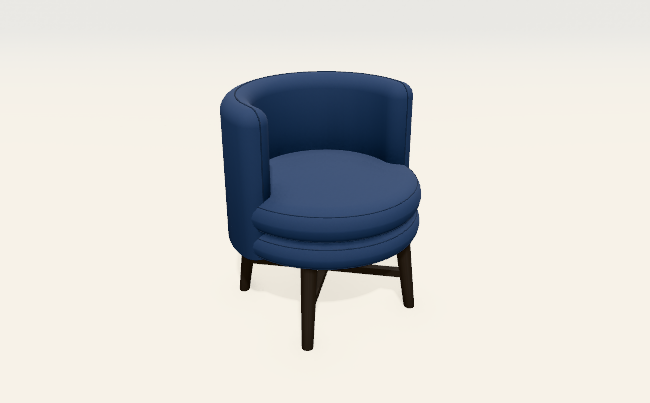
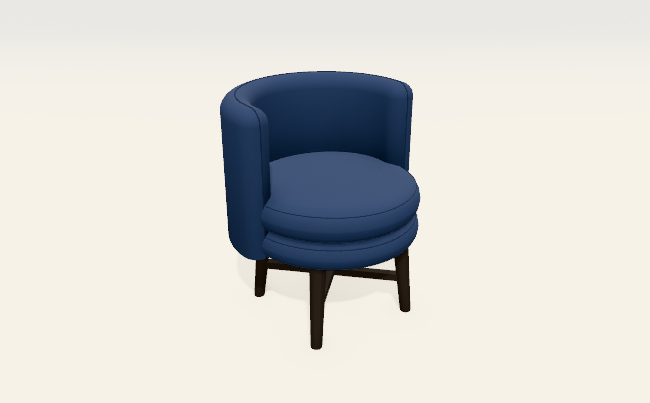
Satie naar de productfoto: trommel tot op de vloer, schaal die errond uitsteekt, één los rugkussen
- Satie: maten van de productpagina (diameter 70, hoogte 70; zithoogte 45 geschat), één breed rugkussen in
  plaats van drie rollen (Jonas: "Satie heeft maar 1 kussen"), schaal met bies. Prijs 1.018 → 959.
- Nieuw gegeven `zitIn`: de schaal steekt een paar cm rond de trommelzitting uit, zoals op de foto's; de
  zitting, het onderstel, het boven- en het vooraanzicht volgen. Ook op Fraser (3,5 cm).
- Losse vierkante rugkussens leunen tegen de rand van de schaal (staken er van achter doorheen); eigen
  hoogte per model (`kussenHoog`).
- Tests en referentiebeelden (satie-schuin erbij, fraser-schuin vernieuwd).

Claude-Session: https://claude.ai/code/session_01PczewFp9M8BS44vqTSpk6u

diff --git a/packages/core/src/kuip.ts b/packages/core/src/kuip.ts
@@ -50,6 +50,12 @@ export interface KuipParameters {
   zitTrommel?: boolean;
   /** Afronding van de bovenrand van die trommel in cm (standaard 6). */
   zitRand?: number;
+  /**
+   * De schaal steekt zoveel cm rond de trommelzitting uit (een trapje tussen schaal en zitting, zoals op de foto's van
+   * Satie, Quin en Fraser). De zitting wordt aan de zijkanten zoveel smaller en blijft vooraan tot tegen de voorkant
+   * komen, zodat de maten van de zetel gelijk blijven. Leeg = zitting en schaal (bijna) gelijk.
+   */
+  zitIn?: number;
   /** De schaal staat op de zitting (onderkant net onder de zithoogte) in plaats van eromheen tot onderaan. */
   schaalOp?: boolean;
   /** Dikte in cm van het houten frame onder de zitting bij poten met een frame (ringframe); standaard 4. */
@@ -75,6 +81,8 @@ export interface KuipParameters {
    */
   kussens?: number;
   kussenMaat?: number;
+  /** Hoogte van die kussens in cm als ze niet vierkant zijn (Satie: één breed kussen); leeg = zoals `kussenMaat`. */
+  kussenHoog?: number;
 }
 
 /** Parameters uit de `teken`-velden van de gekozen kuipvorm; null voor de hoekige fauteuil (rechte rug en armen). */
@@ -102,6 +110,7 @@ export function kuipParameters(tekenVanKeuze: Record<string, unknown> | undefine
     ...(teken.profielRecht === true ? { profielRecht: true } : {}),
     ...(teken.zitTrommel === true ? { zitTrommel: true } : {}),
     ...(typeof teken.zitRand === 'number' ? { zitRand: teken.zitRand } : {}),
+    ...(typeof teken.zitIn === 'number' && teken.zitIn > 0 ? { zitIn: teken.zitIn } : {}),
     ...(teken.schaalOp === true ? { schaalOp: true } : {}),
     ...(typeof teken.frameDik === 'number' ? { frameDik: teken.frameDik } : {}),
     ...(teken.frameKruis === true ? { frameKruis: true } : {}),
@@ -110,8 +119,12 @@ export function kuipParameters(tekenVanKeuze: Record<string, unknown> | undefine
     ...(profielRechts.length >= 2 ? { profielRechts } : {}),
     ...(typeof teken.kussens === 'number' && teken.kussens >= 1 ? { kussens: Math.min(5, Math.round(teken.kussens)) } : {}),
     ...(typeof teken.kussenMaat === 'number' ? { kussenMaat: teken.kussenMaat } : {}),
+    ...(typeof teken.kussenHoog === 'number' ? { kussenHoog: teken.kussenHoog } : {}),
   };
 }
+
+/** Hoeveel graden een los vierkant rugkussen achterover tegen de schaal leunt (rond zijn onderkant). */
+export const KUSSEN_KANTEL = 14;
 
 /** Waarde van een verloop [u, f] op plaats u: tussen twee punten een zachte S-bocht (of recht). */
 function langsProfiel(profiel: [number, number][], u: number, recht = false): number {
@@ -137,6 +150,17 @@ export function superellips(cx: number, cy: number, a: number, b: number, n: num
     uit.push([cx + a * Math.sign(c) * Math.abs(c) ** (2 / n), cy + b * Math.sign(s) * Math.abs(s) ** (2 / n)]);
   }
   return uit;
+}
+
+/**
+ * Kader van de trommelzitting in lokale maten. Zonder `zitIn` het hele grondvlak; met `zitIn` aan de zijkanten zoveel
+ * naar binnen, achteraan tot in de schaal (nooit voorbij haar binnenkant, anders een kier) en vooraan tot de voorkant.
+ * Het onderstel (frame en poten) staat onder dit kader.
+ */
+export function trommelKader(B: number, D: number, k: KuipParameters | null): { x: number; y: number; b: number; d: number } {
+  if (!k?.zitTrommel || !k.zitIn) return { x: 0, y: 0, b: B, d: D };
+  const w = Math.min(k.dikte, B / 3, D / 3), zi = Math.min(k.zitIn, B / 6, D / 6), achter = Math.max(0, Math.min(2 * zi, w - 0.5));
+  return { x: zi, y: achter, b: B - 2 * zi, d: D - achter };
 }
 
 /**
@@ -260,19 +284,25 @@ export function kuipOpbouw(B: number, D: number, h: { P: number; zithoogte: numb
   const achter = k.zwevend ? 3 : w * (k.organisch ? 0.9 : 0.85);
   const zij = k.zwevend ? 1.5 : w * (k.organisch ? 0.45 : 0.8);
   const zcy = (achter + D - 1.5) / 2, zb = (D - 1.5 - achter) / 2;
-  // Trommel: de zitting is het hele grondvlak.
-  const zit = k.zitTrommel ? plan : superellips(cx, zcy, B / 2 - zij, zb, k.plan === 'rond' ? 2.4 : n, 0, 360, 64).slice(0, -1);
+  // Trommel: de zitting is het hele grondvlak, of met `zitIn` een kleiner grondvlak binnen de schaal (zie trommelKader).
+  const tk = trommelKader(B, D, k);
+  const zit = k.zitTrommel
+    ? k.zitIn ? plan.map(([x, y]) => [rond1(tk.x + (x / B) * tk.b), rond1(tk.y + (y / D) * tk.d)] as Punt) : plan
+    : superellips(cx, zcy, B / 2 - zij, zb, k.plan === 'rond' ? 2.4 : n, 0, 360, 64).slice(0, -1);
   // Losse rugkussens tegen de wand achteraan.
   const rugkussens: KuipOpbouw['rugkussens'] = [];
   if (losseRug && k.kussens) {
     // Gewone vierkante kussens langs de binnenkant van de schaal, elk naar het midden van de zetel gedraaid. Ze staan op
     // een kleiner grondvlak (de schaal, het halve kussen en 1 cm speling naar binnen) en overlappen elkaar wat.
-    const dik = 13, maat = Math.max(25, Math.min(k.kussenMaat ?? 46, B - 2 * w - 6));
-    const a = B / 2 - w - dik / 2 - 1, b = D / 2 - w - dik / 2 - 1;
+    const dik = 13, maat = Math.max(25, Math.min(k.kussenMaat ?? 46, B - 2 * w - 6)), hoog = Math.max(20, k.kussenHoog ?? maat);
+    // Het kussen leunt achterover tegen de bovenrand van de schaal: onderaan staat het zoveel verder naar voren als het
+    // tot die rand achteruit helt. Anders stak het door de schaal heen (van achter te zien, Satie 13/11).
+    const leun = Math.max(0, Math.min(rug - zitBoven, hoog)) * Math.tan((KUSSEN_KANTEL * Math.PI) / 180);
+    const a = B / 2 - w - dik / 2 - 1 - leun, b = D / 2 - w - dik / 2 - 1 - leun;
     const stapGraden = k.kussens > 1 ? Math.min(46, ((maat * 0.82) / ((a + b) / 2)) * (180 / Math.PI)) : 0;
     for (let i = 0; i < k.kussens; i++) {
       const graden = (i - (k.kussens - 1) / 2) * stapGraden, [px, py] = superellips(cx, cy, a, b, n, -90 + graden, -90 + graden, 1)[0]!;
-      rugkussens.push({ lx: rond1(px - maat / 2), ly: rond1(py - dik / 2), lb: maat, ld: dik, y: zitBoven, h: maat, draai: rond1(graden), vierkant: true });
+      rugkussens.push({ lx: rond1(px - maat / 2), ly: rond1(py - dik / 2), lb: maat, ld: dik, y: zitBoven, h: hoog, draai: rond1(graden), vierkant: true });
     }
   } else if (losseRug) {
     const aantal = Math.max(1, Math.min(3, Math.round((B - 2 * w) / 30)));

diff --git a/packages/core/src/ruimtelijk.ts b/packages/core/src/ruimtelijk.ts
@@ -8,7 +8,7 @@
 import { weefselVan, type Materiaal } from './materialen.js';
 import { echt3dPlaatsing, type Echt3D, type Echt3DPlaatsing } from './echt3d.js';
 import { doorlopendeOpbouw } from './doorlopend.js';
-import { framePoten, kuipOpbouw, kuipParameters, superellips, type Punt } from './kuip.js';
+import { framePoten, KUSSEN_KANTEL, kuipOpbouw, kuipParameters, superellips, trommelKader, type Punt } from './kuip.js';
 import { chaiseRugVan, chaiseRugVlak, draagHoogteVan, dragerVan, gekozenOpties, karkasHoogteVan, rugleuningTop, hoogtesVan, materiaalVan, lokaalNaarWereld, voetafdruk, vormgevingVan, type Ontwerp, type OntwerpCatalogus, type OntwerpElement } from './ontwerp.js';
 
 export type BlokSoort =
@@ -208,16 +208,19 @@ export function bouw3D(ontwerp: Ontwerp, catalogus: OntwerpCatalogus, materialen
         const kuipFrame = t.tekenstijl === 'kuip' ? kuipParameters(opt.get('kuipvorm')?.teken, vormgevingVan(ontwerp, e).kuip) : null;
         const ringH = potVorm === 'ringframe' ? Math.min(kuipFrame?.frameDik ?? 4, P / 3) : 0;
         const exp = kuipFrame ? kuipFrame.exponent ?? (kuipFrame.plan === 'rond' ? 2 : 3.4) : 2;
+        // Het onderstel staat onder de zitting: bij een trommel die binnen de schaal staat (`zitIn`) onder dat kleinere kader.
+        const tk = trommelKader(B, D, kuipFrame);
         if (ringH > 0 && kuipFrame) {
-          const f = Math.max(0.5, 1 - 3 / (m / 2));
-          omtrekBlok('ring', potSoort, P - ringH, ringH, potKleur, superellips(B / 2, D / 2, (B / 2) * f, (D / 2) * f, exp, 0, 360, 72).slice(0, -1), { afronding: 1 });
+          const f = Math.max(0.5, 1 - 3 / (Math.min(tk.b, tk.d) / 2));
+          omtrekBlok('ring', potSoort, P - ringH, ringH, potKleur, superellips(tk.x + tk.b / 2, tk.y + tk.d / 2, (tk.b / 2) * f, (tk.d / 2) * f, exp, 0, 360, 72).slice(0, -1), { afronding: 1 });
         } else if (ringH > 0) {
           // Een ander element (bv. een zitelement van een sofa): een recht frame onder het hele element, 3 cm naar binnen.
           lokaal('ring', potSoort, 3, 3, B - 6, D - 6, P - ringH, ringH, potKleur, { afronding: 1 });
         }
         // Poten onder de vier hoeken: op de diagonalen van het grondvlak, een eind naar binnen, met de voet schuin naar
         // buiten (zie framePoten). De verschuiving van de voet in wereldmaat, zodat het klopt bij een gedraaid element.
-        const fp = framePoten(B, D, P - ringH, kuipFrame ? exp : null);
+        const fp = framePoten(tk.b, tk.d, P - ringH, kuipFrame ? exp : null);
+        for (const q of fp.poten) { q.lx += tk.x; q.ly += tk.y; }
         for (const q of fp.poten) {
           const boven = lokaalNaarWereld(e, q.lx, q.ly, 0, 0), voet = lokaalNaarWereld(e, q.lx + q.dx, q.ly + q.dy, 0, 0);
           lokaal(`poot-${q.k}`, potSoort, q.lx - dik / 2, q.ly - dik / 2, dik, dik, 0, P - ringH, potKleur, {
@@ -228,7 +231,7 @@ export function bouw3D(ontwerp: Ontwerp, catalogus: OntwerpCatalogus, materialen
           // Twee latten kruiselings tussen de poten: een balk langs x rond het midden van het element, gedraaid tot op de
           // diagonaal naar een poot (in wereldmaat, zodat het ook klopt bij een gedraaid element en een niet-vierkant
           // grondvlak). Even lang als de afstand tussen de (schuine) poten op die hoogte.
-          const y = Math.max(2, (P - ringH) * 0.42), c = lokaalNaarWereld(e, B / 2, D / 2, 0, 0);
+          const y = Math.max(2, (P - ringH) * 0.42), c = lokaalNaarWereld(e, tk.x + tk.b / 2, tk.y + tk.d / 2, 0, 0);
           const lang = 2 * (fp.straal + fp.spreid * (1 - y / (P - ringH)));
           for (const [k, i] of [['a', 3], ['b', 2]] as const) {
             const q = fp.poten[i]!, poot = lokaalNaarWereld(e, q.lx, q.ly, 0, 0);
@@ -495,8 +498,9 @@ export function bouw3D(ontwerp: Ontwerp, catalogus: OntwerpCatalogus, materialen
               if (binnenPad && beste < half + 4) buitenWand = Math.max(buitenWand, beste - half);
             }
           }
-          const krimp = kp.zwevend || kp.schaalOp ? 0 : r2(0.8 + buitenWand);
-          const basisPlan = opb.plan.map(([x, y]) => [B / 2 + (x - B / 2) * (1 - krimp / (B / 2)), D / 2 + (y - D / 2) * (1 - krimp / (D / 2))] as Punt);
+          const krimp = kp.zwevend || kp.schaalOp || (kp.zitTrommel && kp.zitIn) ? 0 : r2(0.8 + buitenWand);
+          // Trommel binnen de schaal (`zitIn`): het kleinere grondvlak uit de opbouw; anders het hele grondvlak.
+          const basisPlan = kp.zitTrommel && kp.zitIn ? opb.zit : opb.plan.map(([x, y]) => [B / 2 + (x - B / 2) * (1 - krimp / (B / 2)), D / 2 + (y - D / 2) * (1 - krimp / (D / 2))] as Punt);
           // Organisch (Pebble): de zitting is één zachte kiezel in de stof (geen donkere onderbouw met een los kussen erop) en
           // de schaal een eigen zachte vorm met ronde uiteinden (glad, zoals de doorlopende zetel), in plaats van een wand die
           // recht afgesneden in de onderbouw steekt. Twee aparte zachte delen: waar de schaal tegen de zitting drukt, blijft
@@ -541,7 +545,7 @@ export function bouw3D(ontwerp: Ontwerp, catalogus: OntwerpCatalogus, materialen
           opb.rugkussens.forEach((k, i) => lokaal(`rugkussen${opb.rugkussens.length > 1 ? i + 1 : ''}`, 'kussen', k.lx, k.ly, k.lb, k.ld, k.y, k.h, stof,
             // Een gewoon vierkant kussen: ronder, boller, naar het midden van de zetel gedraaid en wat meer achterover.
             k.vierkant
-              ? { afronding: rond1(Math.min(k.ld / 2.2, 3 + zacht * 0.5)), bol: rond1(k.ld * 0.22), kantel: { graden: 14, richting }, ...(k.draai ? { draai: k.draai } : {}) }
+              ? { afronding: rond1(Math.min(k.ld / 2.2, 3 + zacht * 0.5)), bol: rond1(k.ld * 0.22), kantel: { graden: KUSSEN_KANTEL, richting }, ...(k.draai ? { draai: k.draai } : {}) }
               : { afronding: 2 + zacht, kantel: { graden: 10, richting } }));
           break;
         }

diff --git a/packages/core/test/modellen.test.ts b/packages/core/test/modellen.test.ts
@@ -172,7 +172,8 @@ describe('verdekte voet volgt de vorm (geen vierkante plaat onder een rond meube
   });
   it('kuipfauteuil: voet met de omtrek van de onderbouw, helemaal binnen die omtrek', () => {
     for (const code of ['pebble', 'tumble', 'manon', 'satie']) {
-      const b = blokken(code), voet = b.find((x) => x.code === 'e1.verdekt')!, basis = b.find((x) => x.code === 'e1.basis')!;
+      // De onderbouw, of bij een fauteuil met een vaste trommelzitting (Satie) die zitting zelf.
+      const b = blokken(code), voet = b.find((x) => x.code === 'e1.verdekt')!, basis = (b.find((x) => x.code === 'e1.basis') ?? b.find((x) => x.code === 'e1.zitkussen'))!;
       expect(voet.omtrek, code).toBeDefined();
       for (const p of voet.omtrek!) expect(binnen(p, basis.omtrek!), `${code} ${p}`).toBe(true);
     }
@@ -207,8 +208,11 @@ describe('kuipfauteuils: onderbouw binnen de wand, ronde onderrand bij een zweve
   };
   it('de onderbouw steekt nergens door de wand (vroeger een dun streepje naast het wanduiteinde van Ross)', () => {
     // Bij een afgerond grondvlak ligt de buitenkant van de wand in de hoeken tot ±1 cm binnen de omtrek.
-    for (const code of ['ross', 'mabel-1', 'mabel-2', 'sullivan', 'tumble', 'quin', 'satie', 'fraser', 'milton', 'manon'])
+    for (const code of ['ross', 'mabel-1', 'mabel-2', 'sullivan', 'tumble', 'quin', 'milton', 'manon'])
       expect(speling(code), code).toBeGreaterThan(0.7);
+    // Een trommel die binnen de schaal staat (`zitIn`: Satie, Fraser): haar rand ligt overal binnen de wand, tegen de
+    // binnenkant aan (geen kier tussen zitting en schaal, en niets dat erdoor steekt).
+    for (const code of ['satie', 'fraser']) expect(speling(code), code).toBeGreaterThan(0.3);
   });
   it('alleen de zwevende schaal (Karl) krijgt een ronde onderrand; een wand op de onderbouw niet', () => {
     const karl = blokken('karl').find((x) => x.code === 'e1.rug')!;
@@ -231,7 +235,7 @@ describe('Pebble (kuipvorm organisch): zachte kiezel met een schaal, geen losse 
     expect(rug.y).toBeLessThan(0); // platte onderkant onder de vloer
   });
   it('andere kuipfauteuils blijven zoals ze waren (donkere onderbouw, los zitkussen, wand op de onderbouw)', () => {
-    for (const code of ['tumble', 'manon', 'satie']) {
+    for (const code of ['tumble', 'manon']) {
       const b = blokken(code), basis = b.find((x) => x.code === 'e1.basis')!, rug = b.find((x) => x.code === 'e1.rug')!;
       expect(basis.soort, code).toBe('stof');
       expect(basis.glad, code).toBeUndefined();
@@ -247,7 +251,7 @@ describe('fauteuils naar de productfoto\'s (13/11)', () => {
   // Maten van de productpagina's: breedte × diepte × hoogte en de zithoogte.
   const SITE: Record<string, [number, number, number, number]> = {
     milton: [70, 68, 72, 40], 'mabel-1': [68, 65, 76, 45], 'mabel-2': [150, 65, 76, 45], 'mabel-meridienne': [150, 65, 76, 45],
-    fraser: [61, 61, 70, 44],
+    fraser: [61, 61, 70, 44], satie: [70, 70, 70, 45],
   };
   it('de maten van de productpagina: het kader van de 3D en de bovenkant van de zitting', () => {
     for (const [code, [b, d, h, zit]] of Object.entries(SITE)) {
@@ -255,12 +259,27 @@ describe('fauteuils naar de productfoto\'s (13/11)', () => {
       // Het kader van de fauteuil zelf (een los sierkussen, zoals op de méridienne, telt niet mee).
       const eigen = s.blokken.filter((x) => x.code.startsWith('e1.'));
       expect(s.kader, code).toMatchObject({ b, d });
-      expect(Math.max(...eigen.map((x) => x.y + x.h)), code).toBe(h);
+      // De hoogte van de site is de schaal; een los rugkussen mag erboven uitkomen (Satie).
+      expect(Math.max(...eigen.filter((x) => !x.code.includes('rugkussen')).map((x) => x.y + x.h)), code).toBe(h);
       expect(zitting.y + zitting.h, code).toBe(zit);
       // Eén vaste zitting in de stof, zonder donkere onderbouw; geen fout in de prijsberekening.
       expect(s.blokken.some((x) => x.code === 'e1.basis'), code).toBe(false);
       expect(berekenOntwerp(model(code).ontwerp, zetelCatalogus, standaardMaterialen).meldingen.filter((m) => m.ernst === 'fout'), code).toHaveLength(0);
     }
+  });
+  it('Satie: trommel tot op de vloer, de schaal steekt errond uit, één los rugkussen (geen drie rollen)', () => {
+    const b = scene('satie').blokken, rug = b.find((x) => x.code === 'e1.rug')!, zit = b.find((x) => x.code === 'e1.zitkussen')!;
+    expect(new Set(rug.hoogtes)).toEqual(new Set([70]));
+    expect(rug.naad?.soort).toBe('bies');
+    expect(zit.y).toBeLessThanOrEqual(2);
+    // Het trapje: de zitting is 8 cm smaller dan de schaal, en komt vooraan tot de voorkant.
+    expect(zit.b).toBeCloseTo(62, 0);
+    expect(zit.z + zit.d).toBeCloseTo(70, 0);
+    const kussens = b.filter((x) => x.code.startsWith('e1.rugkussen'));
+    expect(kussens).toHaveLength(1);
+    expect(kussens[0]).toMatchObject({ b: 48, h: 38 });
+    // Het kussen komt boven de schaal uit, zoals op de foto.
+    expect(kussens[0]!.y + kussens[0]!.h).toBeGreaterThan(70);
   });
   it('Fraser: lage rechte schaal, zitting in twee lagen, vier schuine poten met een kruis', () => {
     const b = scene('fraser').blokken, rug = b.find((x) => x.code === 'e1.rug')!;

diff --git a/packages/core/test/kuip.test.ts b/packages/core/test/kuip.test.ts
@@ -1,6 +1,6 @@
 import { describe, expect, it } from 'vitest';
 import { berekenOntwerp, bouw3D, tekenVooraanzicht, type Ontwerp, type Rotatie } from '../src/index.js';
-import { framePoten, kuipOpbouw, kuipParameters } from '../src/kuip.js';
+import { framePoten, kuipOpbouw, kuipParameters, trommelKader } from '../src/kuip.js';
 import { standaardMaterialen } from '../voorbeelden/sofa.js';
 import { zetelCatalogus } from '../voorbeelden/vrij-ontwerp.js';
 
@@ -291,6 +291,46 @@ describe('eigen vorm per model: zitting, schaal en onderstel als gegevens (13/11
     expect(band.omtrek).toEqual(kussen.omtrek);
     // Zonder: één geheel, zoals voorheen.
     expect(bouw3D(fauteuil(milton), cat, standaardMaterialen).blokken.some((x) => x.code === 'f.zitband')).toBe(false);
+  });
+
+  it('de schaal steekt rond de trommel uit (`zitIn`): smallere zitting, vooraan tot de voorkant, onderstel eronder', () => {
+    const kp = kuipParameters({ plan: 'rond', dikte: 6, boog: 95 }, { zitTrommel: true, zitIn: 4, profiel: [[0, 1], [1, 1]] })!;
+    // Zijkanten 4 cm naar binnen; achteraan tot net in de schaal (5,5 van de 6 cm: geen kier), vooraan niets.
+    expect(trommelKader(70, 70, kp)).toEqual({ x: 4, y: 5.5, b: 62, d: 64.5 });
+    expect(trommelKader(70, 70, { ...kp, zitIn: undefined })).toEqual({ x: 0, y: 0, b: 70, d: 70 });
+    const opb = kuipOpbouw(70, 70, { P: 2, zithoogte: 45, rugH: 70, kussenDik: 0 }, kp, false);
+    const xs = opb.zit.map((q) => q[0]), ys = opb.zit.map((q) => q[1]);
+    expect([Math.min(...xs), Math.max(...xs), Math.min(...ys), Math.max(...ys)]).toEqual([4, 66, 5.5, 70]);
+    // In de 3D en in beide tekeningen dezelfde zitting; het frame en de poten staan eronder, niet onder de schaal.
+    for (const rotatie of [0, 90, 180, 270] as Rotatie[]) {
+      const o = fauteuil({ ...milton, zitIn: 3 }, 'ringframe', rotatie), b = bouw3D(o, cat, standaardMaterialen).blokken;
+      const zit = b.find((x) => x.code === 'f.zitkussen')!, ring = b.find((x) => x.code === 'f.ring')!;
+      expect(Math.min(zit.b, zit.d), `rotatie ${rotatie}`).toBeCloseTo(62, 0);
+      expect(ring.x, `rotatie ${rotatie}`).toBeGreaterThan(zit.x);
+      expect(ring.x + ring.b, `rotatie ${rotatie}`).toBeLessThan(zit.x + zit.b);
+      expect(ring.z, `rotatie ${rotatie}`).toBeGreaterThan(zit.z);
+      expect(ring.z + ring.d, `rotatie ${rotatie}`).toBeLessThan(zit.z + zit.d);
+      for (const p of b.filter((x) => x.code.startsWith('f.poot-'))) {
+        expect(p.x, `rotatie ${rotatie}`).toBeGreaterThan(zit.x);
+        expect(p.x + p.b, `rotatie ${rotatie}`).toBeLessThan(zit.x + zit.b);
+      }
+      const voor = tekenVooraanzicht(o, cat, standaardMaterialen).vormen, zitV = voor.find((v) => v.code === 'f.zitkussen')!, ringV = voor.find((v) => v.code === 'f.ring')!;
+      expect(zitV.breedte, `rotatie ${rotatie}`).toBeCloseTo(zit.b, 0);
+      expect(ringV.x, `rotatie ${rotatie}`).toBeGreaterThan(zitV.x);
+      expect(ringV.x + ringV.breedte!, `rotatie ${rotatie}`).toBeLessThan(zitV.x + zitV.breedte!);
+    }
+  });
+
+  it('een los vierkant rugkussen leunt tegen de rand van de schaal en steekt er niet doorheen', () => {
+    const kp = kuipParameters({ plan: 'rond', dikte: 6, boog: 95 }, { zitTrommel: true, profiel: [[0, 1], [1, 1]], kussens: 1, kussenMaat: 48, kussenHoog: 38 })!;
+    const k = kuipOpbouw(70, 70, { P: 2, zithoogte: 45, rugH: 70, kussenDik: 0 }, kp, true).rugkussens[0]!;
+    expect(k).toMatchObject({ lb: 48, h: 38, vierkant: true });
+    // Onderaan staat de achterkant van het kussen 25 cm × tan 14° (±6,2 cm) voor de binnenkant van de schaal (6 cm).
+    expect(k.ly).toBeGreaterThan(6 + 6);
+    expect(k.ly).toBeLessThan(6 + 8);
+    // Zonder eigen hoogte blijft het vierkant.
+    const vier = kuipOpbouw(70, 70, { P: 2, zithoogte: 45, rugH: 70, kussenDik: 0 }, { ...kp, kussenHoog: undefined }, true).rugkussens[0]!;
+    expect(vier.h).toBe(48);
   });
 
   it('de schaal van een trommelfauteuil krijgt een naad of bies langs haar rand', () => {

diff --git a/packages/core/src/vooraanzicht.ts b/packages/core/src/vooraanzicht.ts
@@ -7,7 +7,7 @@
 import type { Materiaal } from './materialen.js';
 import { chaiseRugVan, chaiseRugVlak, draagHoogteVan, dragerVan, gekozenOpties, karkasHoogteVan, rugleuningTop, lokaalNaarWereld, hoogtesVan, materiaalVan, voetafdruk, vormgevingVan, type Ontwerp, type OntwerpCatalogus, type OptieKeuze } from './ontwerp.js';
 import type { TekeningResultaat, VormResultaat } from './types.js';
-import { framePoten, kuipOpbouw, kuipParameters } from './kuip.js';
+import { framePoten, kuipOpbouw, kuipParameters, trommelKader } from './kuip.js';
 import { strakProfiel, uitlopendProfiel } from './ruimtelijk.js';
 
 const rond = (x: number) => Math.round(x * 100) / 100;
@@ -91,19 +91,21 @@ export function tekenVooraanzicht(ontwerp: Ontwerp, catalogus: OntwerpCatalogus,
         case 'ringframe':
         case 'kruisframe': {
           // Onderstel van een fauteuil: een frame onder de zitting op schuine poten, of vier poten met een kruis.
-          const frame = vorm === 'ringframe' ? Math.min(kuipParameters(opt.get('kuipvorm')?.teken, vormgevingVan(ontwerp, e).kuip)?.frameDik ?? 4, P / 3) : 0;
-          if (frame) rect(`${e.id}.ring`, x0 + 3, -P, p.b - 6, frame, potKleur);
-          // Zelfde poten als in de 3D (framePoten): de bovenkant onder het frame, de voet schuin naar buiten.
           const kuipFrame = t.tekenstijl === 'kuip' ? kuipParameters(opt.get('kuipvorm')?.teken, vormgevingVan(ontwerp, e).kuip) : null;
-          const fp = framePoten(p.b, p.h, P - frame, kuipFrame ? kuipFrame.exponent ?? (kuipFrame.plan === 'rond' ? 2 : 3.4) : null);
-          const rv = fp.poten[3]!, uit = rv.lx - p.b / 2, voet = uit + rv.dx;
+          const frame = vorm === 'ringframe' ? Math.min(kuipFrame?.frameDik ?? 4, P / 3) : 0;
+          // Onder de zitting: bij een trommel die binnen de schaal staat (`zitIn`) onder dat kleinere kader.
+          const tk = trommelKader(e.breedte, e.diepte, kuipFrame), wk = lokaalNaarWereld(e, tk.x, tk.y, tk.b, tk.d), mid = wk.x + wk.b / 2;
+          if (frame) rect(`${e.id}.ring`, wk.x + 3, -P, wk.b - 6, frame, potKleur);
+          // Zelfde poten als in de 3D (framePoten): de bovenkant onder het frame, de voet schuin naar buiten.
+          const fp = framePoten(wk.b, wk.h, P - frame, kuipFrame ? kuipFrame.exponent ?? (kuipFrame.plan === 'rond' ? 2 : 3.4) : null);
+          const rv = fp.poten[3]!, uit = rv.lx - wk.b / 2, voet = uit + rv.dx;
           for (const [k, s] of [['l', -1], ['r', 1]] as const) {
-            const xb = x0 + p.b / 2 + s * uit, xv = x0 + p.b / 2 + s * voet;
+            const xb = mid + s * uit, xv = mid + s * voet;
             pad(`${e.id}.poot-${k}`, `M${rond(xb - 2.5)} ${rond(-(P - frame))} H${rond(xb + 2.5)} L${rond(xv + 1.75)} 0 H${rond(xv - 1.75)} Z`, Math.min(xb, xv) - 2.5, -(P - frame), Math.abs(xv - xb) + 5, P - frame, potKleur);
           }
           if (vorm === 'kruisframe' || kuipFrame?.frameKruis) {
             const y = Math.max(2, (P - frame) * 0.42), half = uit + rv.dx * (1 - y / (P - frame));
-            rect(`${e.id}.kruis`, x0 + p.b / 2 - half, -(y + 2.4), 2 * half, 2.4, potKleur);
+            rect(`${e.id}.kruis`, mid - half, -(y + 2.4), 2 * half, 2.4, potKleur);
           }
           break;
         }
@@ -250,7 +252,7 @@ export function tekenVooraanzicht(ontwerp: Ontwerp, catalogus: OntwerpCatalogus,
             const xa = Math.min(a.x, c.x), xb = Math.max(a.x, c.x);
             rect(`${e.id}.rugkussen${opb.rugkussens.length > 1 ? i + 1 : ''}`, xa, top(k.y + k.h), xb - xa, k.h, stof, { afronding: 2 + zacht, ...lijn });
           }
-          const [bx0, bx1] = xs(opb.plan);
+          const [bx0, bx1] = xs(kp.zitTrommel ? opb.zit : opb.plan);
           const voor = kp.zwevend ? null : omhullende(true);
           // Trommel: één zitting van de poten tot de zithoogte, die vóór de uiteinden van de schaal staat (de schaal stopt
           // rond het midden; getekend na de zitting leken haar uiteinden twee palen ervoor). Anders een onderbouw met het

diff --git a/packages/core/voorbeelden/modellen.ts b/packages/core/voorbeelden/modellen.ts
@@ -236,10 +236,18 @@ export const zetelModellen: ModelDefinitie[] = [
     hoofdmateriaal: 'velours_bosgroen', opties: { poten: 'draaivoet', rug: 'los_dons', comfort: 'dons' },
     vormgeving: { zachtheid: 8 }, elementen: rij([['fauteuil', 90, 90, { kuipvorm: 'trommel' }]]),
   }, 'F-Quin'),
-  model('satie', 'Satie', FAUTEUIL, 'Ronde kuipfauteuil met los rugkussen in velours, op een verdekte voet.', {
-    hoofdmateriaal: 'velours_oudroze', opties: { poten: 'verdekt', poothoogte: 'laag', rug: 'los' },
-    vormgeving: { zachtheid: 7 }, elementen: rij([['fauteuil', 80, 80, { kuipvorm: 'trommel' }]]),
-  }, 'F-Satie'),
+  model('satie', 'Satie', FAUTEUIL, 'Ronde fauteuil: een trommel tot op de vloer met een dunne schaal met bies rond de achterste helft en één los rugkussen.', {
+    hoofdmateriaal: 'velours_oudroze', opties: { poten: 'verdekt', rug: 'los', zitting: 'vaste_zitting', naad: 'bies' },
+    // Productpagina: diameter 70 (ook 110 en 130), hoogte 70; geen zithoogte (45 geschat). Uit de foto's (benadering,
+    // 13/11): een ronde trommel tot op de vloer; een dunne schaal met een bies die er rondom een paar cm uitsteekt, even
+    // hoog rondom, rond de achterste helft; één los, breed rugkussen dat boven de schaal uitkomt (Jonas, 13/11: "Satie
+    // heeft maar 1 kussen"; de grotere maten hebben er volgens de site 4 en 5).
+    vormgeving: {
+      zachtheid: 7, rughoogte: 70, zithoogte: 45, poothoogte: 2,
+      kuip: { dikte: 6, boog: 95, zitTrommel: true, zitRand: 3, zitIn: 4, profiel: [[0, 1], [1, 1]], kussens: 1, kussenMaat: 48, kussenHoog: 38 },
+    },
+    elementen: rij([['fauteuil', 70, 70, { kuipvorm: 'trommel' }]]),
+  }, 'F-Satie', MATEN_WEBSITE),
   model('mabel-1', 'Mabel 1-zit', FAUTEUIL, 'Kuipfauteuil in bouclé: een dunne leuning die aan de zijkanten tot op de dikke zitting zakt, op een donker frame met slanke poten.', {
     hoofdmateriaal: 'boucle_belize', opties: { poten: 'ringframe', poothoogte: 'hoog', hout: 'eik_zwart', zitting: 'vaste_zitting', naad: 'bies' },
     // Productpagina: 68 × 65 × 76, zithoogte 45, zitdiepte 49. Uit de foto's (benadering, 13/11): de leuning staat achteraan
@@ -263,7 +271,7 @@ export const zetelModellen: ModelDefinitie[] = [
     // Geen bies te zien.
     vormgeving: {
       zachtheid: 6, rughoogte: 70, zithoogte: 44, poothoogte: 26,
-      kuip: { dikte: 9, boog: 96, zitTrommel: true, zitRand: 5, zitNaad: 10, profiel: [[0, 1], [1, 1]] },
+      kuip: { dikte: 9, boog: 96, zitTrommel: true, zitRand: 5, zitNaad: 10, zitIn: 3.5, profiel: [[0, 1], [1, 1]] },
     },
     elementen: rij([['fauteuil', 61, 61, { kuipvorm: 'rond' }]]),
   }, 'F-Fraser', MATEN_WEBSITE),

diff --git a/packages/core/src/ontwerp.ts b/packages/core/src/ontwerp.ts
@@ -601,7 +601,7 @@ function tekenElement(e: OntwerpElement, stijl: Tekenstijl, kleur: string, optie
         const w0 = lokaalNaarWereld(e, 0, 0, B, D);
         const vorm = (code: string, punten: string[], vulling: string): VormResultaat =>
           ({ code: `${e.id}.${code}`, x: rond(w0.x), y: rond(w0.y), breedte: rond(w0.b), hoogte: rond(w0.h), vulling, pad: `M${punten.join(' L')} Z` });
-        const uit: VormResultaat[] = [vorm('zit', opb.plan.map(([x, y]) => naarW(x, y)), kleur), vorm('kussen', opb.zit.map(([x, y]) => naarW(x, y)), kleur)];
+        const uit: VormResultaat[] = [vorm('zit', (kp.zitTrommel ? opb.zit : opb.plan).map(([x, y]) => naarW(x, y)), kleur), vorm('kussen', opb.zit.map(([x, y]) => naarW(x, y)), kleur)];
         // Wand: buitenkant heen, rond uiteinde, binnenkant terug, rond begin.
         const p = opb.wand.pad, h = opb.wand.dikte / 2;
         const nrm = p.map((q, i) => {
